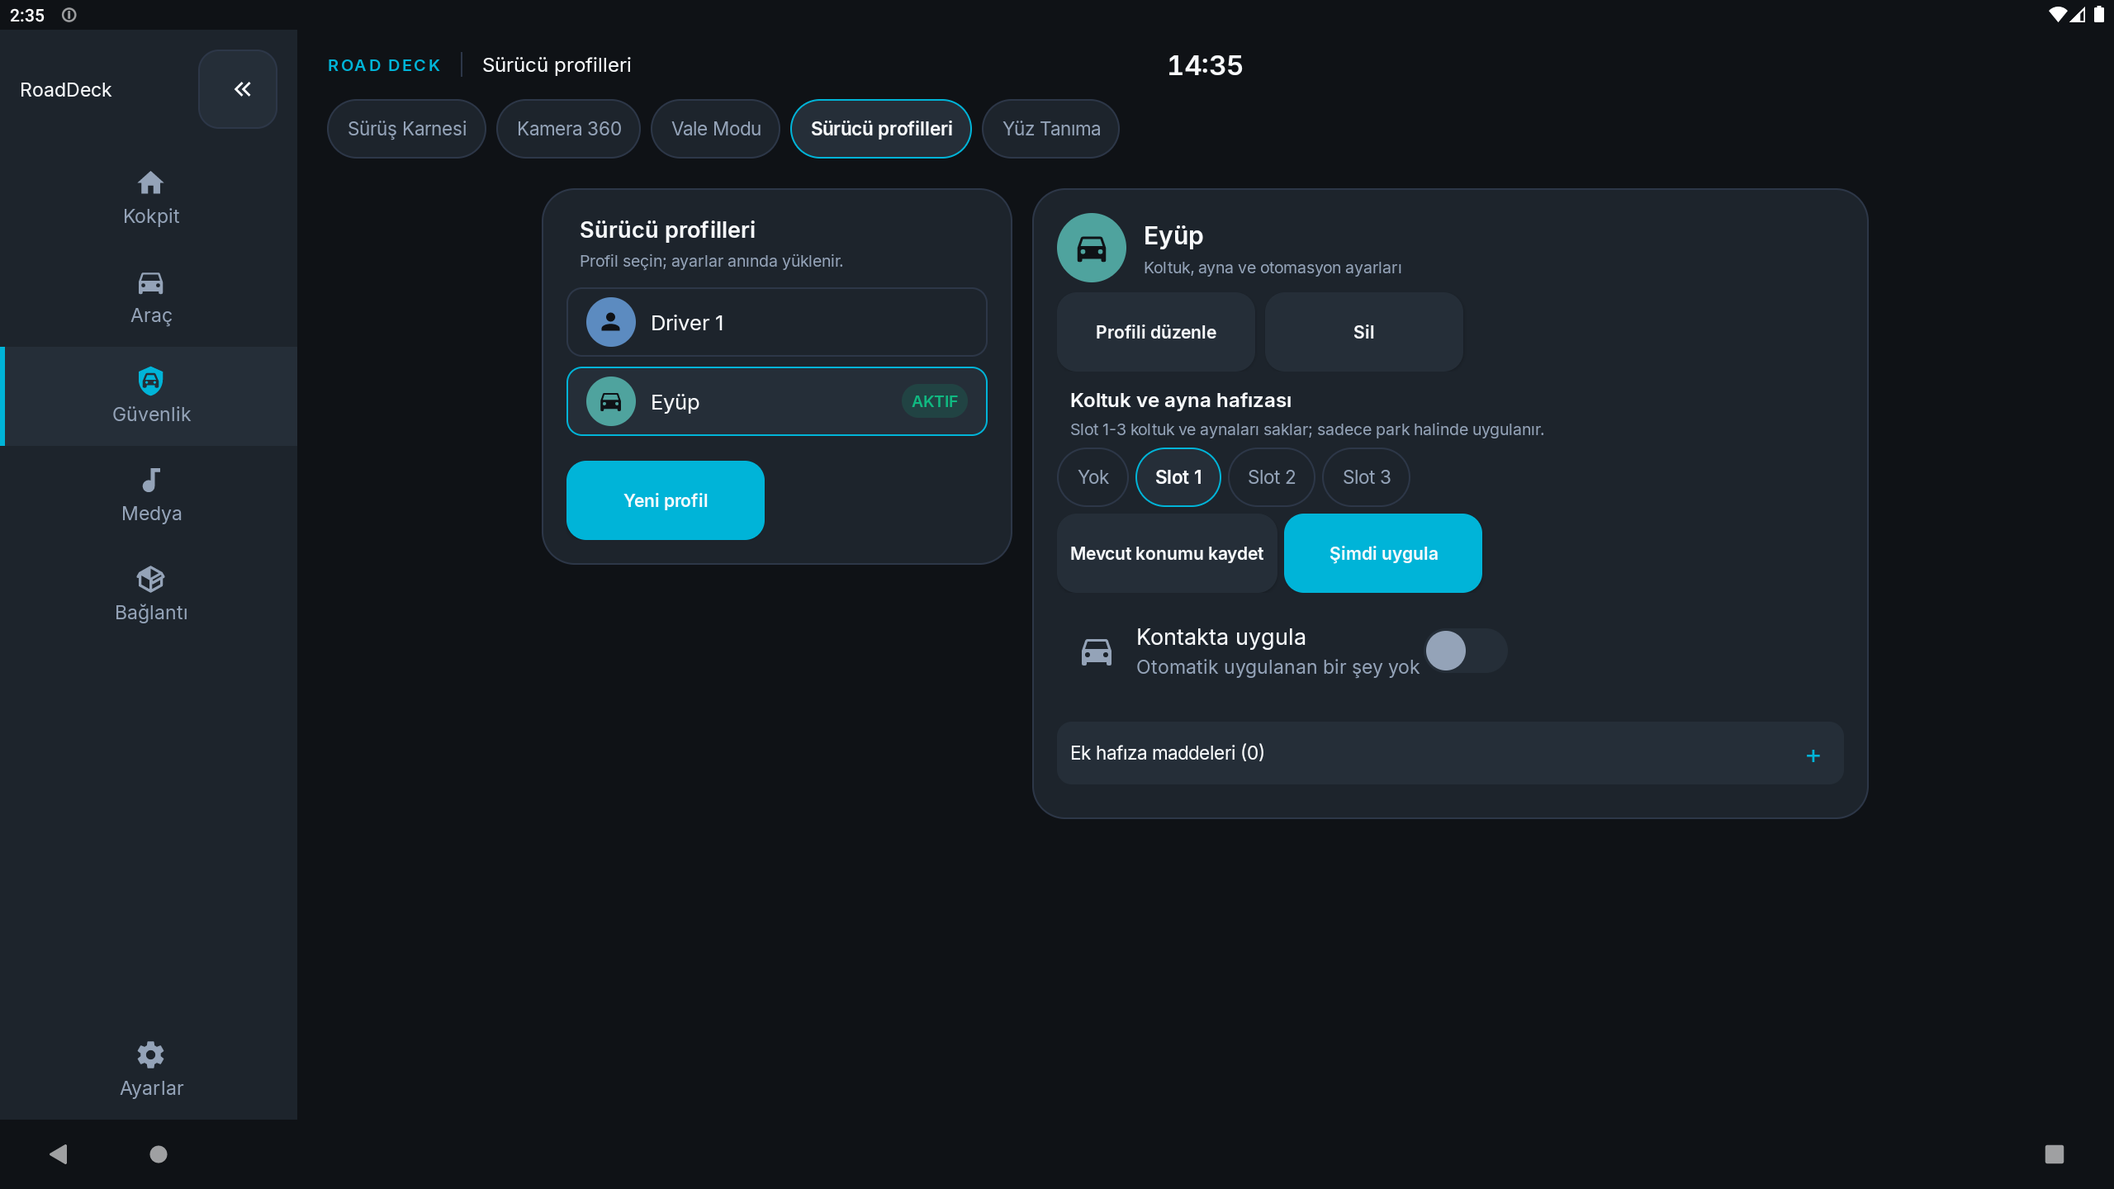
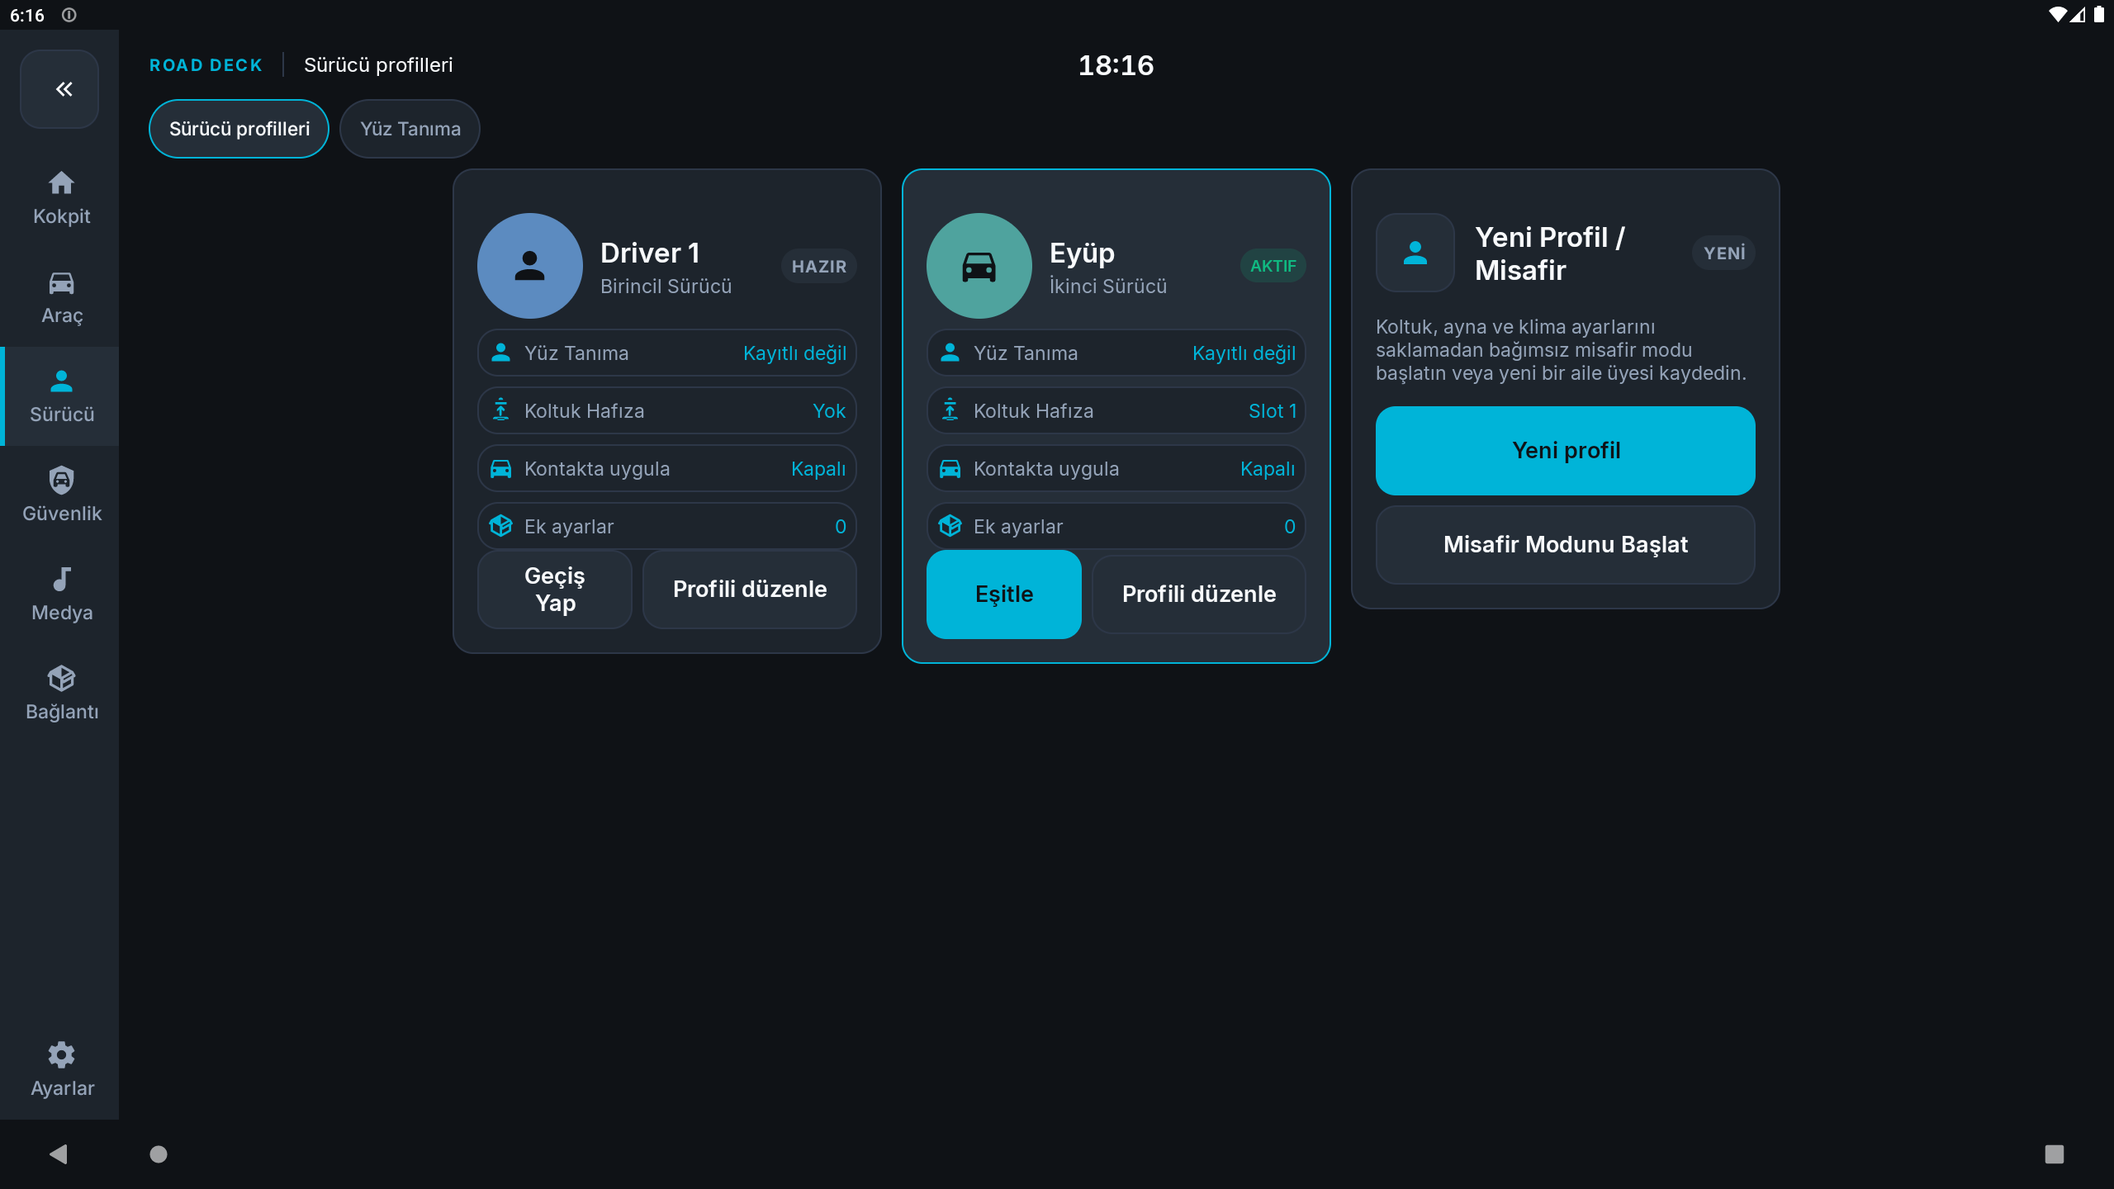
feat: Surucu domaini ve profil kartlari
- Sol menude Araç sonrasi Surucu domaini; Profil + Yuz Tanima buraya tasindi
- Surucu Profilleri mock: aktif/diger profil kartlari + Yeni Profil/Misafir
- Profil ozet satirlari, aktif accent cerceve, kisa aksiyonlar
- Koltuk/ek ayarlar dialogu ve profil callbackleri korundu

diff --git a/app/src/main/java/com/mapcontrol/ui/builder/DriverProfilesTabBuilder.java b/app/src/main/java/com/mapcontrol/ui/builder/DriverProfilesTabBuilder.java
@@ -25,6 +25,9 @@ import com.mapcontrol.R;
 import com.mapcontrol.profile.DriverProfileApplier;
 import com.mapcontrol.profile.DriverProfileManager;
 import com.mapcontrol.profile.ProfileAvatars;
+import com.mapcontrol.vehicle.FaceProfileStore;
+import com.mapcontrol.ui.cockpit.CockpitCard;
+import com.mapcontrol.ui.cockpit.CockpitButton;
 import com.mapcontrol.ui.cockpit.CockpitChip;
 import com.mapcontrol.ui.cockpit.CockpitSurfaces;
 import com.mapcontrol.ui.cockpit.CockpitToggleRow;
@@ -80,45 +83,272 @@ public class DriverProfilesTabBuilder {
                 margin, margin);
 
         DriverProfileManager.Profile active = manager.getActive();
-        if (context.getResources().getConfiguration().screenWidthDp >= 1000) {
-            LinearLayout columns = new LinearLayout(context);
-            columns.setOrientation(LinearLayout.HORIZONTAL);
-            columns.setBaselineAligned(false);
+        boolean wide = context.getResources().getConfiguration().screenWidthDp >= 1000;
+        LinearLayout cards = new LinearLayout(context);
+        cards.setOrientation(wide ? LinearLayout.HORIZONTAL : LinearLayout.VERTICAL);
+        cards.setBaselineAligned(false);
 
-            LinearLayout left = createCard();
-            addProfileList(left, active);
-            LinearLayout right = createCard();
-            addProfileDetail(right, active);
-
-            int gutter = UiStyles.dimenPx(context, R.dimen.spacing_medium);
-            LinearLayout.LayoutParams leftLp = new LinearLayout.LayoutParams(
-                    0, LinearLayout.LayoutParams.WRAP_CONTENT, 0.36f);
-            leftLp.setMarginEnd(gutter / 2);
-            LinearLayout.LayoutParams rightLp = new LinearLayout.LayoutParams(
-                    0, LinearLayout.LayoutParams.WRAP_CONTENT, 0.64f);
-            rightLp.setMarginStart(gutter / 2);
-            columns.addView(left, leftLp);
-            columns.addView(right, rightLp);
-            outer.addView(columns, new LinearLayout.LayoutParams(
-                    LinearLayout.LayoutParams.MATCH_PARENT,
-                    LinearLayout.LayoutParams.WRAP_CONTENT));
-        } else {
-            LinearLayout listCard = createCard();
-            addProfileList(listCard, active);
-            outer.addView(listCard, new LinearLayout.LayoutParams(
-                    LinearLayout.LayoutParams.MATCH_PARENT,
-                    LinearLayout.LayoutParams.WRAP_CONTENT));
-            LinearLayout detailCard = createCard();
-            addProfileDetail(detailCard, active);
-            LinearLayout.LayoutParams detailLp = new LinearLayout.LayoutParams(
-                    LinearLayout.LayoutParams.MATCH_PARENT,
-                    LinearLayout.LayoutParams.WRAP_CONTENT);
-            detailLp.topMargin = UiStyles.dimenPx(context, R.dimen.spacing_medium);
-            outer.addView(detailCard, detailLp);
+        java.util.List<DriverProfileManager.Profile> profiles = manager.getProfiles();
+        for (int i = 0; i < profiles.size(); i++) {
+            DriverProfileManager.Profile profile = profiles.get(i);
+            CockpitCard card = buildProfileCard(profile, profile == active, i);
+            if (wide) {
+                LinearLayout.LayoutParams lp = new LinearLayout.LayoutParams(
+                        0, LinearLayout.LayoutParams.WRAP_CONTENT, 1f);
+                if (i > 0) lp.leftMargin = CockpitTokens.dim(context, R.dimen.ck_gutter);
+                cards.addView(card, lp);
+            } else {
+                LinearLayout.LayoutParams lp = new LinearLayout.LayoutParams(
+                        LinearLayout.LayoutParams.MATCH_PARENT, LinearLayout.LayoutParams.WRAP_CONTENT);
+                if (i > 0) lp.topMargin = CockpitTokens.dim(context, R.dimen.ck_gutter);
+                cards.addView(card, lp);
+            }
         }
 
+        CockpitCard newCard = buildNewProfileCard();
+        if (wide) {
+            LinearLayout.LayoutParams lp = new LinearLayout.LayoutParams(
+                    0, LinearLayout.LayoutParams.WRAP_CONTENT, 1f);
+            lp.leftMargin = CockpitTokens.dim(context, R.dimen.ck_gutter);
+            cards.addView(newCard, lp);
+        } else {
+            LinearLayout.LayoutParams lp = new LinearLayout.LayoutParams(
+                    LinearLayout.LayoutParams.MATCH_PARENT, LinearLayout.LayoutParams.WRAP_CONTENT);
+            lp.topMargin = CockpitTokens.dim(context, R.dimen.ck_gutter);
+            cards.addView(newCard, lp);
+        }
+        outer.addView(cards, new LinearLayout.LayoutParams(
+                LinearLayout.LayoutParams.MATCH_PARENT, LinearLayout.LayoutParams.WRAP_CONTENT));
         scrollView.addView(outer, new ScrollView.LayoutParams(
                 LinearLayout.LayoutParams.MATCH_PARENT, LinearLayout.LayoutParams.WRAP_CONTENT));
+    }
+
+    private CockpitCard buildProfileCard(DriverProfileManager.Profile profile,
+            boolean active, int index) {
+        CockpitCard card = new CockpitCard(context);
+        if (active) {
+            card.setBackground(CockpitSurfaces.outlined(context,
+                    CockpitTokens.color(context, R.color.ck_surface_2),
+                    CockpitTokens.color(context, R.color.ck_accent), 16f));
+        }
+        int pad = CockpitTokens.dim(context, R.dimen.ck_card_padding);
+        card.setPadding(pad, pad, pad, pad);
+
+        LinearLayout header = new LinearLayout(context);
+        header.setOrientation(LinearLayout.HORIZONTAL);
+        header.setGravity(Gravity.CENTER_VERTICAL);
+        frame(card, profile, header, active, index);
+        card.addContent(header);
+
+        addInfoRow(card, R.drawable.ic_mdi_account,
+                context.getString(R.string.profiles_face_label), faceStatus());
+        addInfoRow(card, R.drawable.ic_mdi_car_seat,
+                context.getString(R.string.profiles_seat_label),
+                profile.seatSlot > 0
+                        ? context.getString(R.string.profiles_slot_n, profile.seatSlot)
+                        : context.getString(R.string.profiles_slot_none));
+        addInfoRow(card, R.drawable.ic_mdi_car,
+                context.getString(R.string.profiles_apply_on_start_title),
+                context.getString(profile.applyOnStart
+                        ? R.string.profiles_apply_on_start_short_on
+                        : R.string.profiles_apply_on_start_short_off));
+        addInfoRow(card, R.drawable.ic_mdi_package_variant,
+                context.getString(R.string.profiles_advanced_items_short),
+                String.valueOf(profile.items.size()));
+
+        LinearLayout actions = new LinearLayout(context);
+        actions.setOrientation(LinearLayout.HORIZONTAL);
+        actions.setGravity(Gravity.CENTER_VERTICAL);
+        if (active) {
+            CockpitButton apply = CockpitButton.primary(context,
+                    context.getString(R.string.profiles_sync_apply_short));
+            apply.setOnClickListener(v -> executor.execute(() -> {
+                DriverProfileApplier.applyNow(context, log);
+                handler.post(onProfileChanged);
+            }));
+            actions.addView(apply, new LinearLayout.LayoutParams(0,
+                    LinearLayout.LayoutParams.WRAP_CONTENT, 1f));
+        } else {
+            CockpitButton activate = CockpitButton.secondary(context,
+                    context.getString(R.string.profiles_activate_short));
+            activate.setOnClickListener(v -> {
+                manager.activate(profile.id);
+                log.accept("[Profil] Aktif profil: " + profile.name);
+                handler.post(onProfileChanged);
+            });
+            actions.addView(activate, new LinearLayout.LayoutParams(0,
+                    LinearLayout.LayoutParams.WRAP_CONTENT, 1f));
+        }
+        CockpitButton edit = CockpitButton.secondary(context,
+                context.getString(R.string.profiles_edit));
+        LinearLayout.LayoutParams editLp = new LinearLayout.LayoutParams(
+                LinearLayout.LayoutParams.WRAP_CONTENT, LinearLayout.LayoutParams.WRAP_CONTENT);
+        editLp.leftMargin = CockpitTokens.dim(context, R.dimen.ck_space_sm);
+        edit.setOnClickListener(v -> showProfileSettings(profile));
+        actions.addView(edit, editLp);
+        card.addContent(actions);
+        return card;
+    }
+
+    private void frame(CockpitCard card, DriverProfileManager.Profile profile,
+            LinearLayout header, boolean active, int index) {
+        float density = context.getResources().getDisplayMetrics().density;
+        FrameLayout avatar = createAvatar(profile.avatar, 64, false);
+        LinearLayout.LayoutParams avatarLp = new LinearLayout.LayoutParams(
+                64 * Math.round(density), 64 * Math.round(density));
+        avatarLp.setMarginEnd(Math.round(14 * density));
+        header.addView(avatar, avatarLp);
+
+        LinearLayout text = new LinearLayout(context);
+        text.setOrientation(LinearLayout.VERTICAL);
+        TextView name = new TextView(context);
+        name.setText(profile.name);
+        CockpitTokens.headlineSm(name);
+        text.addView(name);
+        TextView role = new TextView(context);
+        role.setText(index == 0
+                ? context.getString(R.string.profiles_role_primary)
+                : context.getString(R.string.profiles_role_secondary));
+        CockpitTokens.bodySm(role);
+        role.setTextColor(CockpitTokens.color(context, R.color.ck_text_medium));
+        text.addView(role);
+        header.addView(text, new LinearLayout.LayoutParams(0,
+                LinearLayout.LayoutParams.WRAP_CONTENT, 1f));
+        View badge = active
+                ? StatusBadge.nominal(context, context.getString(R.string.profiles_active_badge))
+                : StatusBadge.neutral(context, context.getString(R.string.profiles_ready_badge));
+        header.addView(badge);
+    }
+
+    private void addInfoRow(CockpitCard card, int iconRes, String label, String value) {
+        LinearLayout row = new LinearLayout(context);
+        row.setOrientation(LinearLayout.HORIZONTAL);
+        row.setGravity(Gravity.CENTER_VERTICAL);
+        row.setPadding(CockpitTokens.dim(context, R.dimen.ck_space_sm),
+                CockpitTokens.dim(context, R.dimen.ck_space_sm),
+                CockpitTokens.dim(context, R.dimen.ck_space_sm),
+                CockpitTokens.dim(context, R.dimen.ck_space_sm));
+        CockpitSurfaces.level1(row);
+        ImageView icon = new ImageView(context);
+        icon.setImageResource(iconRes);
+        icon.setColorFilter(CockpitTokens.color(context, R.color.ck_accent));
+        row.addView(icon, new LinearLayout.LayoutParams(dp(22), dp(22)));
+        TextView text = new TextView(context);
+        text.setText(label);
+        CockpitTokens.bodySm(text);
+        LinearLayout.LayoutParams textLp = new LinearLayout.LayoutParams(0,
+                LinearLayout.LayoutParams.WRAP_CONTENT, 1f);
+        textLp.leftMargin = CockpitTokens.dim(context, R.dimen.ck_space_sm);
+        row.addView(text, textLp);
+        TextView valueView = new TextView(context);
+        valueView.setText(value);
+        CockpitTokens.bodySm(valueView);
+        valueView.setTextColor(CockpitTokens.color(context, R.color.ck_accent));
+        row.addView(valueView);
+        LinearLayout.LayoutParams rowLp = new LinearLayout.LayoutParams(
+                LinearLayout.LayoutParams.MATCH_PARENT, LinearLayout.LayoutParams.WRAP_CONTENT);
+        rowLp.topMargin = CockpitTokens.dim(context, R.dimen.ck_space_sm);
+        card.addContent(row, rowLp);
+    }
+
+    private CockpitCard buildNewProfileCard() {
+        CockpitCard card = new CockpitCard(context);
+        int pad = CockpitTokens.dim(context, R.dimen.ck_card_padding);
+        card.setPadding(pad, pad, pad, pad);
+        LinearLayout header = new LinearLayout(context);
+        header.setOrientation(LinearLayout.HORIZONTAL);
+        header.setGravity(Gravity.CENTER_VERTICAL);
+        FrameLayout icon = new FrameLayout(context);
+        icon.setBackground(CockpitSurfaces.outlined(context,
+                CockpitTokens.color(context, R.color.ck_surface_2),
+                CockpitTokens.color(context, R.color.ck_stroke), 16f));
+        ImageView plus = new ImageView(context);
+        plus.setImageResource(R.drawable.ic_mdi_account);
+        plus.setColorFilter(CockpitTokens.color(context, R.color.ck_accent));
+        icon.addView(plus, new FrameLayout.LayoutParams(dp(28), dp(28), Gravity.CENTER));
+        header.addView(icon, new LinearLayout.LayoutParams(dp(64), dp(64)));
+        TextView label = new TextView(context);
+        label.setText(context.getString(R.string.profiles_new_card_title));
+        CockpitTokens.headlineSm(label);
+        LinearLayout.LayoutParams labelLp = new LinearLayout.LayoutParams(0,
+                LinearLayout.LayoutParams.WRAP_CONTENT, 1f);
+        labelLp.leftMargin = CockpitTokens.dim(context, R.dimen.ck_space_md);
+        header.addView(label, labelLp);
+        header.addView(StatusBadge.neutral(context,
+                context.getString(R.string.profiles_new_badge)));
+        card.addContent(header);
+
+        TextView desc = new TextView(context);
+        desc.setText(context.getString(R.string.profiles_new_card_desc));
+        CockpitTokens.bodySm(desc);
+        desc.setTextColor(CockpitTokens.color(context, R.color.ck_text_medium));
+        LinearLayout.LayoutParams descLp = new LinearLayout.LayoutParams(
+                LinearLayout.LayoutParams.MATCH_PARENT, LinearLayout.LayoutParams.WRAP_CONTENT);
+        descLp.topMargin = CockpitTokens.dim(context, R.dimen.ck_space_md);
+        card.addContent(desc, descLp);
+
+        CockpitButton create = CockpitButton.primary(context,
+                context.getString(R.string.profiles_new));
+        create.setOnClickListener(v -> showNewProfileDialog());
+        LinearLayout.LayoutParams createLp = new LinearLayout.LayoutParams(
+                LinearLayout.LayoutParams.MATCH_PARENT, LinearLayout.LayoutParams.WRAP_CONTENT);
+        createLp.topMargin = CockpitTokens.dim(context, R.dimen.ck_space_md);
+        card.addContent(create, createLp);
+        CockpitButton guest = CockpitButton.secondary(context,
+                context.getString(R.string.profiles_guest_start));
+        guest.setOnClickListener(v -> startGuestProfile());
+        LinearLayout.LayoutParams guestLp = new LinearLayout.LayoutParams(
+                LinearLayout.LayoutParams.MATCH_PARENT, LinearLayout.LayoutParams.WRAP_CONTENT);
+        guestLp.topMargin = CockpitTokens.dim(context, R.dimen.ck_space_sm);
+        card.addContent(guest, guestLp);
+        return card;
+    }
+
+    private String faceStatus() {
+        try {
+            int count = FaceProfileStore.load(context).size();
+            return count > 0
+                    ? context.getString(R.string.profiles_face_registered)
+                    : context.getString(R.string.profiles_face_none);
+        } catch (Exception e) {
+            return context.getString(R.string.profiles_face_none);
+        }
+    }
+
+    private void showProfileSettings(DriverProfileManager.Profile profile) {
+        LinearLayout content = new LinearLayout(context);
+        content.setOrientation(LinearLayout.VERTICAL);
+        content.setPadding(dp(16), dp(8), dp(16), dp(8));
+        addSeatSection(content, profile);
+        addAdvancedItems(content, profile);
+        ScrollView scroll = new ScrollView(context);
+        scroll.addView(content);
+        new AlertDialog.Builder(context)
+                .setTitle(profile.name)
+                .setView(scroll)
+                .setPositiveButton(R.string.profiles_ok, null)
+                .show();
+    }
+
+    private void startGuestProfile() {
+        String guestName = context.getString(R.string.profiles_guest_name);
+        DriverProfileManager.Profile guest = null;
+        for (DriverProfileManager.Profile p : manager.getProfiles()) {
+            if (guestName.equals(p.name)) {
+                guest = p;
+                break;
+            }
+        }
+        if (guest == null) {
+            guest = manager.create(guestName, false);
+        }
+        manager.activate(guest.id);
+        log.accept("[Profil] Misafir profili etkin");
+        handler.post(onProfileChanged);
+    }
+
+    private int dp(int value) {
+        return Math.round(value * context.getResources().getDisplayMetrics().density);
     }
 
     private LinearLayout createCard() {

diff --git a/app/src/main/java/com/mapcontrol/ui/cockpit/CockpitNavModel.java b/app/src/main/java/com/mapcontrol/ui/cockpit/CockpitNavModel.java
@@ -98,15 +98,17 @@ public final class CockpitNavModel {
                             R.drawable.ic_mdi_car_sunroof)
                     .add(TAB_ASSIST, R.string.ck_sub_assist, R.drawable.ic_mdi_shield_car));
 
-            list.add(new Domain(2, R.string.ck_domain_safety, R.drawable.ic_mdi_shield_car)
-                    .add(TAB_DRIVING_HISTORY, R.string.side_rail_driving_report,
-                            R.drawable.ic_mdi_road_variant)
-                    .add(TAB_CAMERA_360, R.string.camera360_title, R.drawable.ic_mdi_camera)
-                    .add(TAB_VALET, R.string.side_rail_valet, R.drawable.ic_mdi_shield_car)
+            list.add(new Domain(6, R.string.ck_domain_driver, R.drawable.ic_mdi_account)
                     .add(TAB_DRIVER_PROFILES, R.string.side_rail_driver_profiles,
                             R.drawable.ic_mdi_account)
                     .add(TAB_FACE_RECOGNITION, R.string.side_rail_face_recognition,
                             R.drawable.ic_mdi_account));
+
+            list.add(new Domain(2, R.string.ck_domain_safety, R.drawable.ic_mdi_shield_car)
+                    .add(TAB_DRIVING_HISTORY, R.string.side_rail_driving_report,
+                            R.drawable.ic_mdi_road_variant)
+                    .add(TAB_CAMERA_360, R.string.camera360_title, R.drawable.ic_mdi_camera)
+                    .add(TAB_VALET, R.string.side_rail_valet, R.drawable.ic_mdi_shield_car));
 
             list.add(new Domain(3, R.string.ck_domain_media, R.drawable.ic_mdi_music_note)
                     .add(TAB_EQUALIZER, R.string.side_rail_equalizer, R.drawable.ic_mdi_equalizer)

diff --git a/app/src/main/java/com/mapcontrol/ui/cockpit/CockpitNavRail.java b/app/src/main/java/com/mapcontrol/ui/cockpit/CockpitNavRail.java
@@ -195,6 +195,7 @@ public class CockpitNavRail extends LinearLayout {
             case 2: return R.string.ck_rail_safety;
             case 3: return R.string.ck_rail_media;
             case 4: return R.string.ck_rail_apps;
+            case 6: return R.string.ck_rail_driver;
             default: return R.string.ck_rail_settings;
         }
     }
